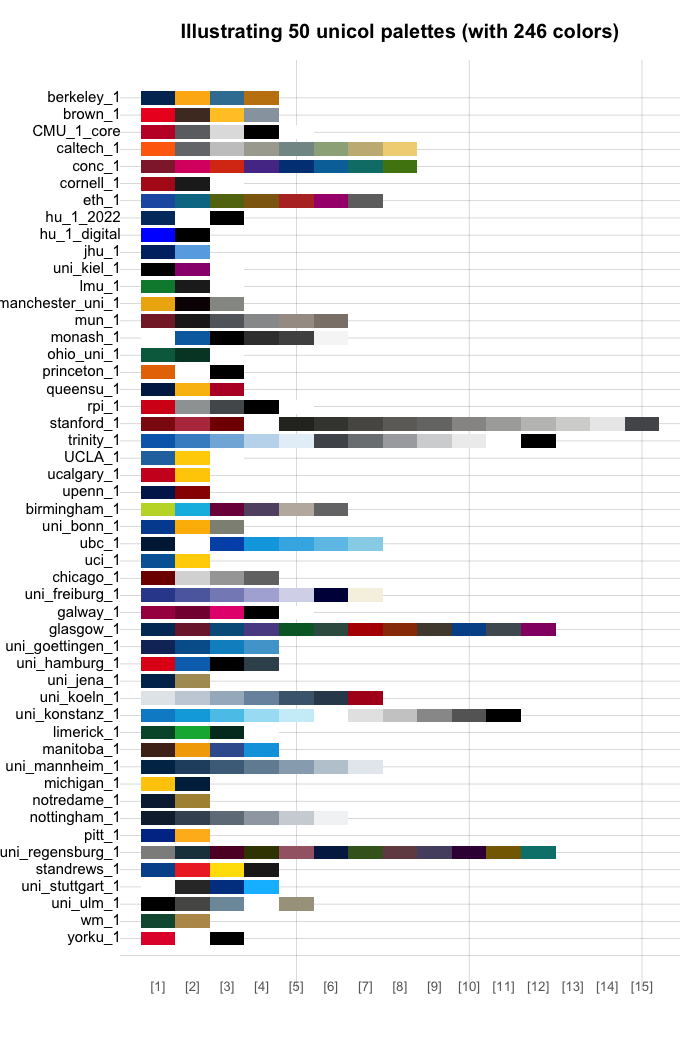
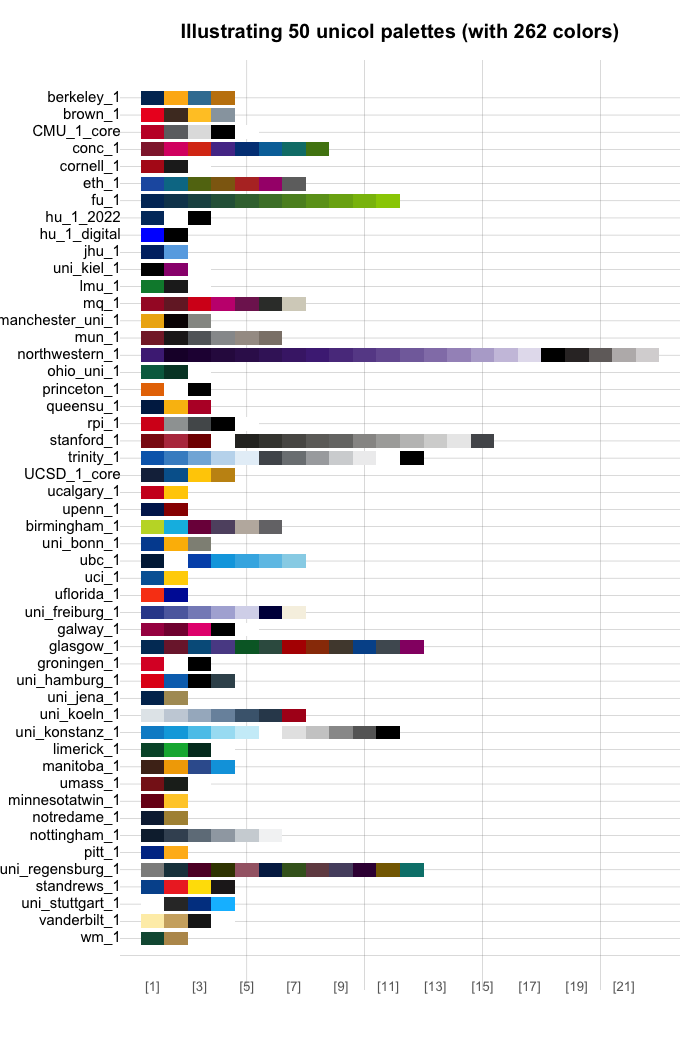
update README

diff --git a/README.md b/README.md
@@ -15,7 +15,7 @@ status](https://www.r-pkg.org/badges/version/unicol)](https://CRAN.R-project.org
 <!-- [![DOI](https://zenodo.org/badge/DOI/10.5281/zenodo.8252106.svg)](https://doi.org/10.5281/zenodo.8252106) -->
 <!-- Release badges end. -->
 
-# unicol 0.1.0.9008 <img src = "man/figures/logo.png" align = "right" alt = "unicol::" width = "165px" alt="" />
+# unicol 0.1.0.9009 <img src = "man/figures/logo.png" align = "right" alt = "unicol::" width = "165px" alt="" />
 
 <!-- unicol pkg logo and link: -->
 <!-- <a href = "https://CRAN.R-project.org/package=unicol"> -->
@@ -79,8 +79,8 @@ library(unikn)   # for color functions
 
 ## Contents
 
-The **unicol** package currently provides **220 color palettes** from
-**93 institutions**.
+The **unicol** package currently provides **222 color palettes** from
+**94 institutions**.
 
 <!-- **Table\ 1** provides an overview of all color palettes:  -->
 
@@ -92,18 +92,18 @@ palettes and institutions.)
 
 ### Examples of color palettes
 
-<!-- The **unicol** package currently contains **220\ color palettes** from **93\ institutions**.  -->
+<!-- The **unicol** package currently contains **222\ color palettes** from **94\ institutions**.  -->
 <!-- Example 1: Random pals (from vignette color_pals.Rmd): -->
 <!-- Show as a table: -->
 <!-- Show as a figure: -->
 
-**Figure 1** illustrates 50 random color palettes (with 246 colors):
+**Figure 1** illustrates 50 random color palettes (with 262 colors):
 
 <div class="figure" style="text-align: center">
 
-<img src="man/figures/README-unicol-pals-example-1-figure-1.png" alt="Figure 1: A sample of 50 unicol palettes (containing 246 colors)." width="600px" />
+<img src="man/figures/README-unicol-pals-example-1-figure-1.png" alt="Figure 1: A sample of 50 unicol palettes (containing 262 colors)." width="600px" />
 <p class="caption">
-Figure 1: A sample of 50 unicol palettes (containing 246 colors).
+Figure 1: A sample of 50 unicol palettes (containing 262 colors).
 </p>
 
 </div>
